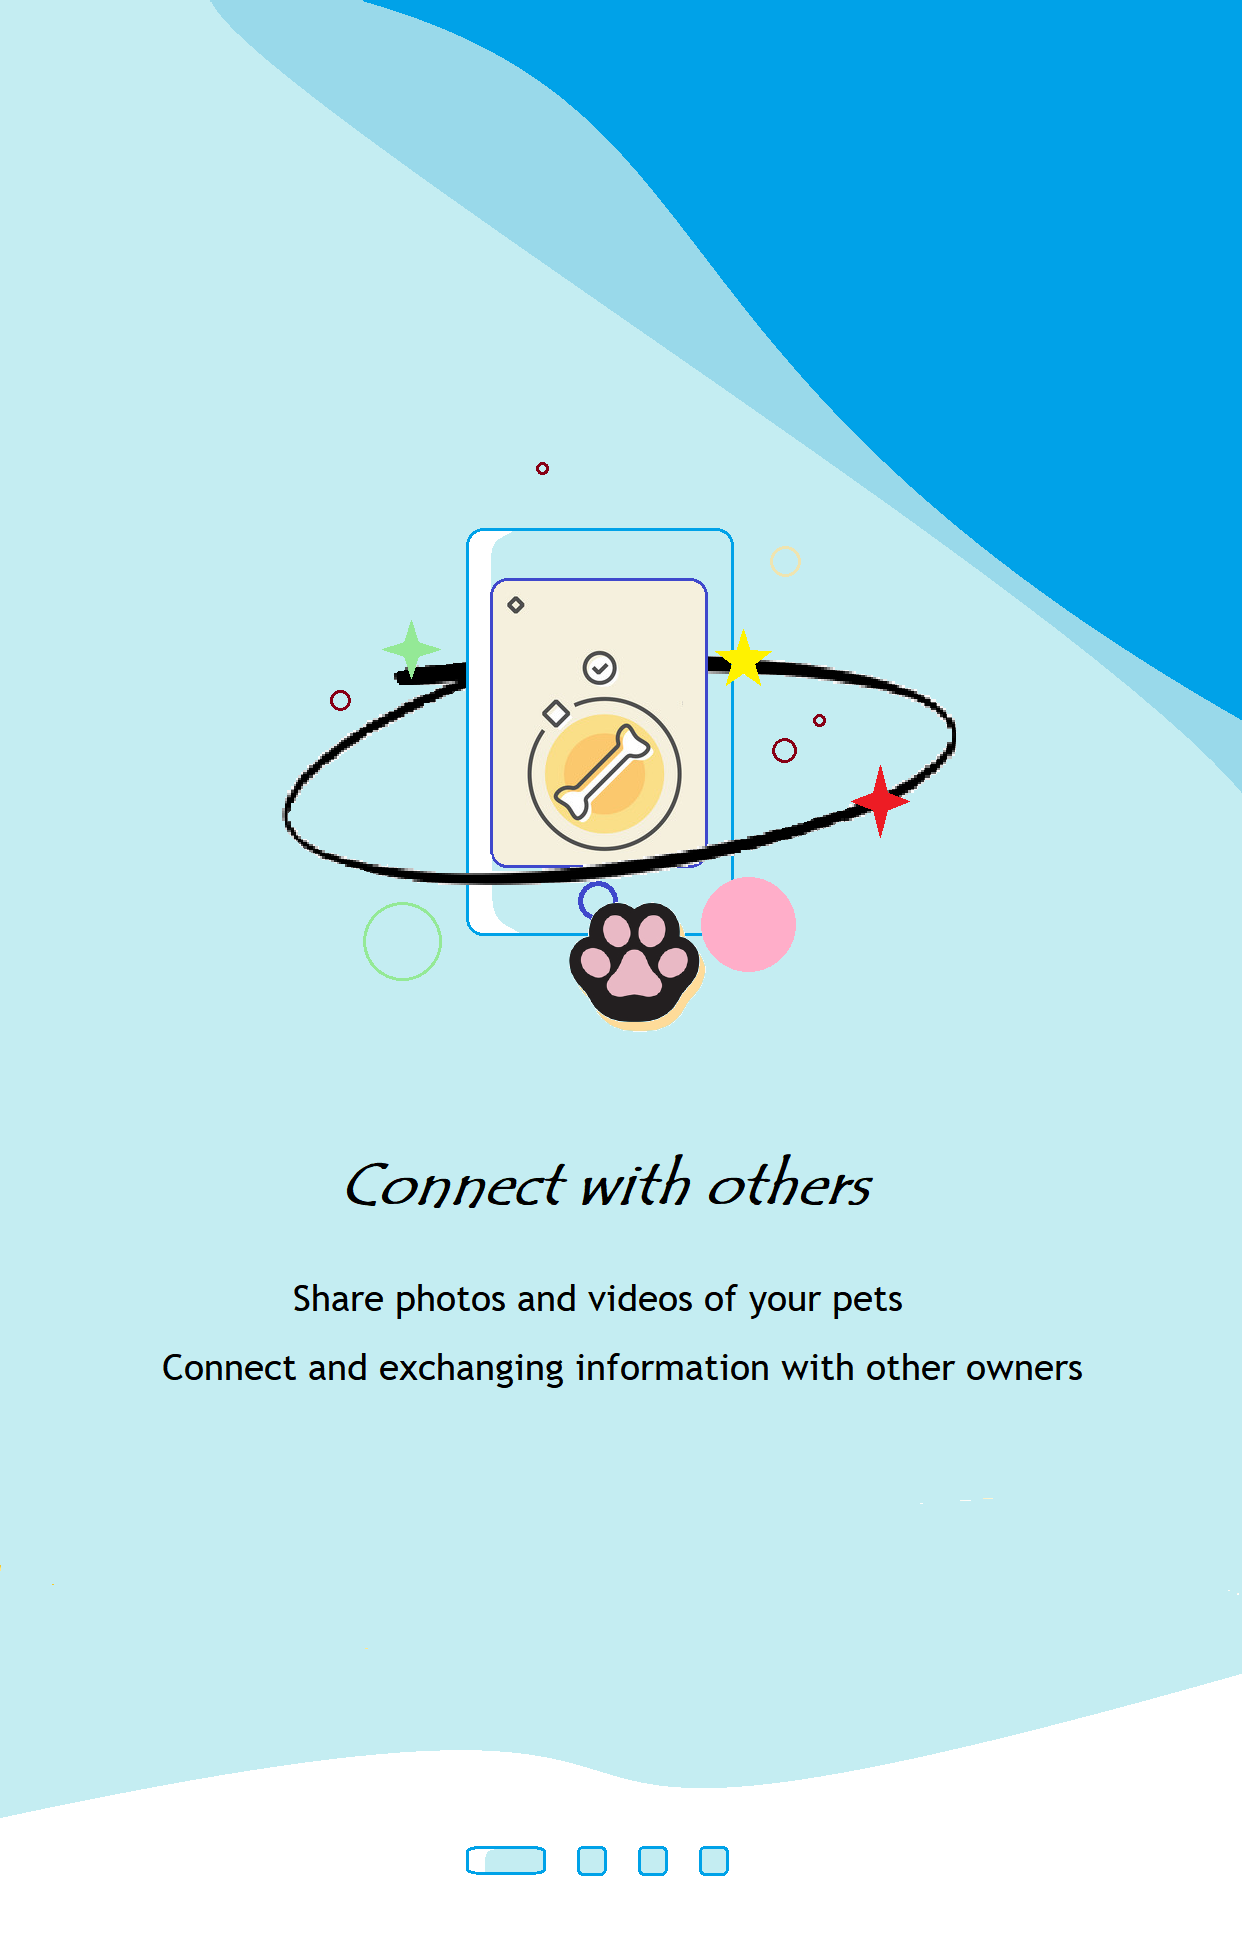
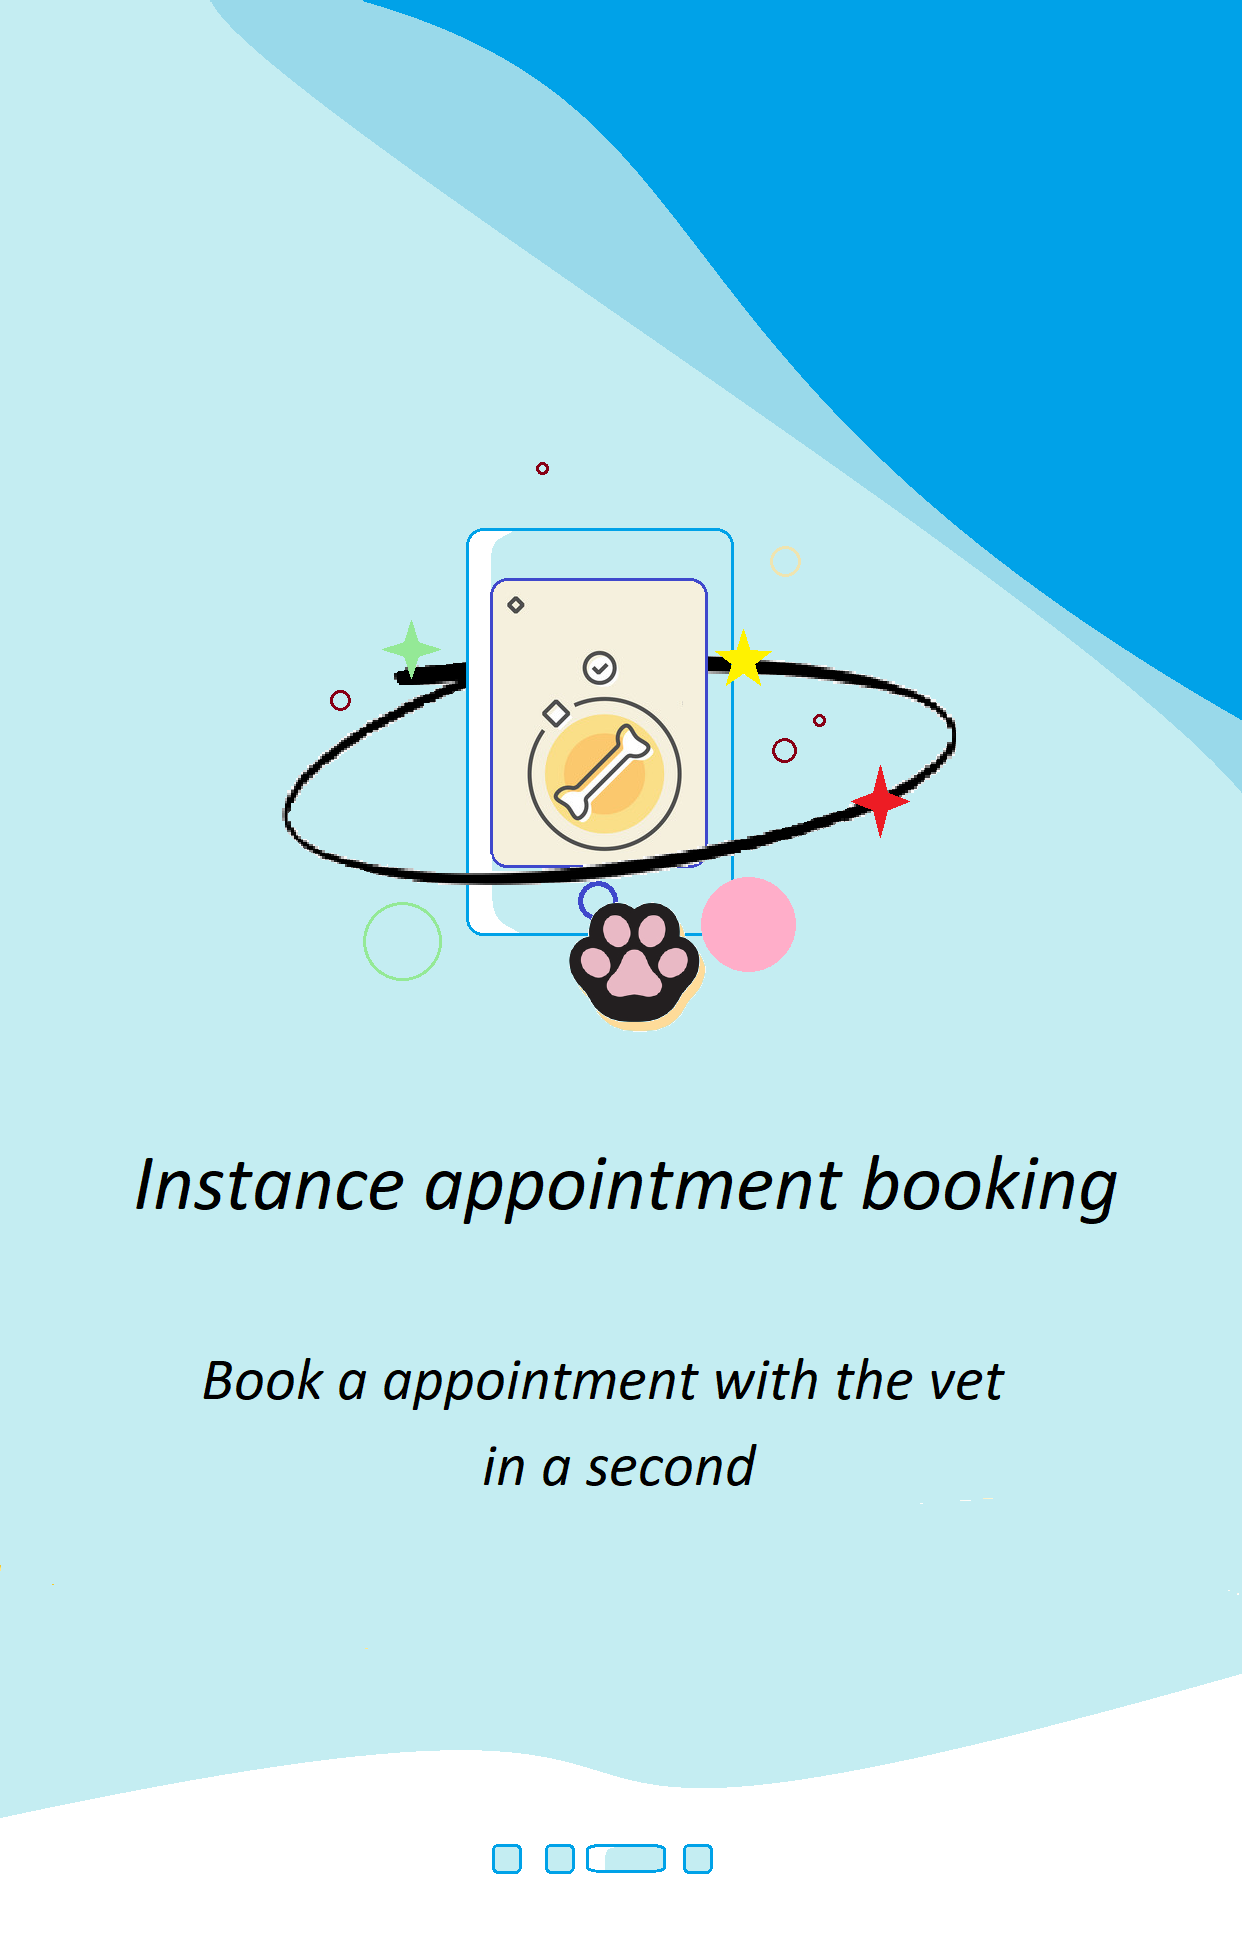
Fix UI, get rid of 1st welcome page

diff --git a/petcare/lib/screens/pets_screen/components/pet_services.dart b/petcare/lib/screens/pets_screen/components/pet_services.dart
@@ -6,29 +6,30 @@ import 'package:petcare/widgets/app_size.dart';
 
 List<PetServices> petServicesList = [
   PetServices(
-      name: "Health Care",
+      name: "We take care of your pet.",
       image:
           "https://image.freepik.com/free-vector/tiny-doctors-caring-dog-vet-office_74855-6677.jpg"),
   PetServices(
-      name: "Grooming", image: "https://en.pimg.jp/068/619/211/1/68619211.jpg"),
+      name: "Bestie has too much hair?",
+      image: "https://en.pimg.jp/068/619/211/1/68619211.jpg"),
   PetServices(
-      name: "Flea treat",
+      name: "Get rid of the flea",
       image:
           "https://image.freepik.com/free-vector/dog-washing-service-flat-illustration-hairdresser-shampooing-cute-domestic-animal-cartoon-character_198278-4971.jpg"),
   PetServices(
-      name: "Pet Sitting",
+      name: "No one look after your pet?",
       image:
           "https://image.freepik.com/free-vector/pet-services-abstract-concept-illustration-pet-sitting-boarding-services-animal-care-services-dog-walking-grooming-salon-daycare-attention-transportation_335657-3646.jpg"),
   PetServices(
-      name: "Nutrition",
+      name: "Only provide the best food",
       image:
           "https://image.freepik.com/free-vector/pet-shop-interior-with-scratching-post-cats-toys-bowl-feed-bag-cans-cartoon-illustration-store-with-accessories-domestic-animals-aquarium-fish-collar-dogs-balls_107791-5927.jpg"),
   PetServices(
-      name: "Stores",
+      name: "Explore various stores",
       image:
           "https://image.freepik.com/free-vector/pet-shop-illustration_1284-25873.jpg"),
   PetServices(
-      name: "Contact us",
+      name: "Need help? Contact us now.",
       image:
           "https://ecomchill.com/wp-content/uploads/2020/04/how-to-make-a-contact-us-page-on-shopify-2-1.jpg"),
 ];
@@ -37,14 +38,15 @@ class PetServicesList extends StatelessWidget {
   @override
   Widget build(BuildContext context) {
     return Container(
-      height: SizeFit.screenHeight / 5.3,
+      height: SizeFit.screenHeight / 4.8,
       child: Padding(
         padding: const EdgeInsets.all(8.0),
         child: CarouselSlider(
           options: CarouselOptions(
-            aspectRatio: 2.0,
+            aspectRatio: 0.1,
             enlargeCenterPage: true,
             scrollDirection: Axis.horizontal,
+            pageSnapping: true,
             autoPlay: true,
           ),
           items: imageSliders,

diff --git a/petcare/lib/screens/pets_screen/pets_screen.dart b/petcare/lib/screens/pets_screen/pets_screen.dart
@@ -350,7 +350,8 @@ class _PetsScreenState extends State<PetsScreen> {
                                                                     .all(Radius
                                                                         .circular(
                                                                             8)),
-                                                            color: Colors.green,
+                                                            color: Colors
+                                                                .lightBlueAccent,
                                                           ),
                                                           child: Padding(
                                                             padding:
@@ -416,7 +417,7 @@ class _PetsScreenState extends State<PetsScreen> {
                                                     trailing: Container(
                                                       decoration: BoxDecoration(
                                                           color: Colors
-                                                              .lightGreenAccent,
+                                                              .lightBlueAccent,
                                                           shape:
                                                               BoxShape.circle),
                                                       child: Transform.rotate(
@@ -425,7 +426,7 @@ class _PetsScreenState extends State<PetsScreen> {
                                                           icon: Icon(Icons
                                                               .map_outlined),
                                                           onPressed: () {},
-                                                          color: Colors.blue,
+                                                          color: Colors.black,
                                                         ),
                                                       ),
                                                     ),

diff --git a/petcare/lib/screens/welcome_screen/welcome_screen.dart b/petcare/lib/screens/welcome_screen/welcome_screen.dart
@@ -31,7 +31,7 @@ class _WelcomeScreenState extends State<WelcomeScreen> {
         return Material(
           child: PageView(
             controller: _pageController,
-            children: [1, 2, 3, 4].map(
+            children: [1, 2, 3].map(
               (index) {
                 return GestureDetector(
                   child: Image.asset(
@@ -39,7 +39,7 @@ class _WelcomeScreenState extends State<WelcomeScreen> {
                     fit: BoxFit.cover,
                   ),
                   onTap: () {
-                    if (index == 4) {
+                    if (index == 3) {
                       SharedStorage.saveShowWelcome();
                       Navigator.of(context).pushReplacement(
                         MaterialPageRoute(
